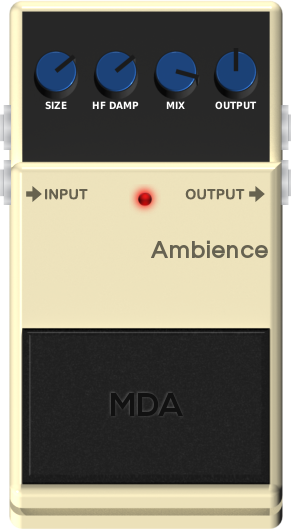
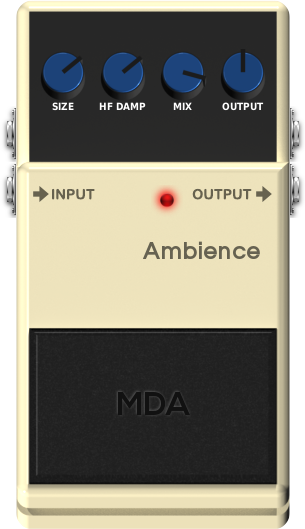
Update ambience modgui, create empty files for all modgui.ttl files

diff --git a/bundles/mod-mda-Ambience.lv2/modgui/stylesheet-mda-ambience.css b/bundles/mod-mda-Ambience.lv2/modgui/stylesheet-mda-ambience.css
@@ -1,0 +1,225 @@
+/* STYLES FOR THE JAPANESE PEDAL */
+
+@import url(/fonts/epf/stylesheet.css);
+@import url(/fonts/nexa/stylesheet.css);
+@import url(/fonts/pirulen/stylesheet.css);
+@import url(/fonts/questrial/stylesheet.css);
+
+/* = CONTAINER
+================================================ */
+.mod-pedal-japanese{{{cns}}} {
+    background-position:center center;
+    background-repeat:no-repeat;
+    height:530px;
+    position:absolute;
+    width:274px;
+    border-radius: 18px;
+}
+
+/* = BACKGROUND IMAGES - Colour of the pedal
+================================================ */
+.mod-pedal-japanese{{{cns}}}.mod-blue        { background-image:url(/resources/pedals/japanese/blue.png{{{ns}}}); }
+.mod-pedal-japanese{{{cns}}}.mod-brown       { background-image:url(/resources/pedals/japanese/brown.png{{{ns}}}); }
+.mod-pedal-japanese{{{cns}}}.mod-cream       { background-image:url(/resources/pedals/japanese/cream.png{{{ns}}}); }
+.mod-pedal-japanese{{{cns}}}.mod-darkblue    { background-image:url(/resources/pedals/japanese/darkblue.png{{{ns}}}); }
+.mod-pedal-japanese{{{cns}}}.mod-gray        { background-image:url(/resources/pedals/japanese/gray.png{{{ns}}}); }
+.mod-pedal-japanese{{{cns}}}.mod-green       { background-image:url(/resources/pedals/japanese/green.png{{{ns}}}); }
+.mod-pedal-japanese{{{cns}}}.mod-orange      { background-image:url(/resources/pedals/japanese/orange.png{{{ns}}}); }
+.mod-pedal-japanese{{{cns}}}.mod-purple      { background-image:url(/resources/pedals/japanese/purple.png{{{ns}}}); }
+.mod-pedal-japanese{{{cns}}}.mod-red         { background-image:url(/resources/pedals/japanese/red.png{{{ns}}}); }
+.mod-pedal-japanese{{{cns}}}.mod-white       { background-image:url(/resources/pedals/japanese/white.png{{{ns}}}); }
+.mod-pedal-japanese{{{cns}}}.mod-yellow      { background-image:url(/resources/pedals/japanese/yellow.png{{{ns}}}); }
+
+/* = PLUGIN'S AUTHOR
+================================================ */
+.mod-pedal-japanese{{{cns}}} .mod-plugin-brand {
+    bottom:95px;
+    left:30px;
+    position:absolute;
+    right:30px;
+    text-align:center;
+    text-transform:uppercase;
+}
+
+.mod-pedal-japanese{{{cns}}} .mod-plugin-brand h1 {
+    color:#111;
+    font-family:"Nexa";
+    font-size:32px;
+    text-shadow:1px 1px 1px rgba(255,255,255,.1), -1px -1px 1px rgba(255,255,255,.2);
+}
+
+/* = PLUGIN'S NAME
+================================================ */
+.mod-pedal-japanese{{{cns}}} .mod-plugin-name {
+    bottom:210px;
+    left:30px;
+    overflow:hidden;
+    position:absolute;
+    right:30px;
+    text-align:right;
+    top:230px;
+}
+
+.mod-pedal-japanese{{{cns}}} .mod-plugin-name h1 {
+    font-family:"Questrial";
+    font-size:24px;
+    line-height:1;
+}
+
+.mod-pedal-japanese{{{cns}}}.mod-blue .mod-plugin-name h1 {
+    color:rgb(47,73,103);
+}
+
+.mod-pedal-japanese{{{cns}}}.mod-brown .mod-plugin-name h1 {
+    color:rgba(255,255,255,.85);
+}
+
+.mod-pedal-japanese{{{cns}}}.mod-cream .mod-plugin-name h1 {
+    color:rgb(102,98,81);
+}
+
+.mod-pedal-japanese{{{cns}}}.mod-darkblue .mod-plugin-name h1 {
+    color:rgba(255,255,255,.85);
+}
+
+.mod-pedal-japanese{{{cns}}}.mod-gray .mod-plugin-name h1 {
+    color:rgba(255,255,255,.85);
+}
+
+.mod-pedal-japanese{{{cns}}}.mod-green .mod-plugin-name h1 {
+    color:rgb(39,65,26);
+}
+
+.mod-pedal-japanese{{{cns}}}.mod-orange .mod-plugin-name h1 {
+    color:rgb(162,79,21);
+}
+
+.mod-pedal-japanese{{{cns}}}.mod-purple .mod-plugin-name h1 {
+    color:rgba(255,255,255,.85);
+}
+
+.mod-pedal-japanese{{{cns}}}.mod-red .mod-plugin-name h1 {
+    color:rgb(85,14,14);
+}
+
+.mod-pedal-japanese{{{cns}}}.mod-white .mod-plugin-name h1 {
+    color:rgb(42,42,42);
+}
+
+.mod-pedal-japanese{{{cns}}}.mod-yellow .mod-plugin-name h1 {
+    color:rgb(118,95,25);
+}
+
+/* = LIGHT ON/OFF
+================================================ */
+.mod-pedal-japanese{{{cns}}} .mod-light {
+    height:32px;
+    left:135px;
+    position:absolute;
+    top:185px;
+    width:32px;
+}
+
+/* = FOOTSWITCH
+================================================ */
+.mod-pedal-japanese{{{cns}}} .mod-footswitch {
+    bottom:46px;
+    cursor:pointer;
+    height:155px;
+    left:13px;
+    position:absolute;
+    right:13px;
+}/* STYLES FOR THE JAPANESE KNOB */
+
+
+/* = KNOBS
+================================================ */
+.mod-pedal-japanese{{{cns}}} .mod-control-group.mod-blue .mod-knob .mod-knob-image {
+    background-image:url(/resources/knobs/japanese/blue.png{{{ns}}});
+}
+.mod-pedal-japanese{{{cns}}} .mod-control-group.mod-brown .mod-knob .mod-knob-image {
+    background-image:url(/resources/knobs/japanese/brown.png{{{ns}}});
+}
+.mod-pedal-japanese{{{cns}}} .mod-control-group.mod-cream .mod-knob .mod-knob-image {
+    background-image:url(/resources/knobs/japanese/cream.png{{{ns}}});
+}
+.mod-pedal-japanese{{{cns}}} .mod-control-group.mod-darkblue .mod-knob .mod-knob-image {
+    background-image:url(/resources/knobs/japanese/darkblue.png{{{ns}}});
+}
+.mod-pedal-japanese{{{cns}}} .mod-control-group.mod-gray .mod-knob .mod-knob-image {
+    background-image:url(/resources/knobs/japanese/gray.png{{{ns}}});
+}
+.mod-pedal-japanese{{{cns}}} .mod-control-group.mod-green .mod-knob .mod-knob-image {
+    background-image:url(/resources/knobs/japanese/green.png{{{ns}}});
+}
+.mod-pedal-japanese{{{cns}}} .mod-control-group.mod-orange .mod-knob .mod-knob-image {
+    background-image:url(/resources/knobs/japanese/orange.png{{{ns}}});
+}
+.mod-pedal-japanese{{{cns}}} .mod-control-group.mod-purple .mod-knob .mod-knob-image {
+    background-image:url(/resources/knobs/japanese/purple.png{{{ns}}});
+}
+.mod-pedal-japanese{{{cns}}} .mod-control-group.mod-red .mod-knob .mod-knob-image {
+    background-image:url(/resources/knobs/japanese/red.png{{{ns}}});
+}
+.mod-pedal-japanese{{{cns}}} .mod-control-group.mod-white .mod-knob .mod-knob-image {
+    background-image:url(/resources/knobs/japanese/white.png{{{ns}}});
+}
+.mod-pedal-japanese{{{cns}}} .mod-control-group.mod-yellow .mod-knob .mod-knob-image {
+    background-image:url(/resources/knobs/japanese/yellow.png{{{ns}}});
+}
+
+.mod-pedal-japanese{{{cns}}} .mod-control-group {
+    height:141px;
+    left:17px;
+    position:absolute;
+    right:17px;
+    top:18px;
+}
+.mod-pedal-japanese{{{cns}}} .mod-control-group .mod-knob {
+    height:70px;
+    float:left;
+    overflow:hidden;
+    position:relative;
+    text-align:center;
+    width:60px;
+}
+.mod-pedal-japanese{{{cns}}} .mod-control-group .mod-knob > span.mod-knob-title {
+    color:white;
+    display:block;
+    font-size:10px;
+    font-weight:bold;
+    height:11px;
+    line-height:1;
+    margin:0;
+    padding:0;
+    position:relative;
+    overflow:hidden;
+    text-transform:uppercase;
+}
+.mod-pedal-japanese{{{cns}}} .mod-control-group .mod-knob .mod-knob-image {
+    background-position:left center;
+    background-repeat:no-repeat;
+    background-size:auto 52px;
+    height:52px;
+    margin:0 auto;
+    position:relative;
+    overflow:hidden;
+    width:52px;
+}
+
+
+/* 4 KNOBS */
+.mod-pedal-japanese{{{cns}}}.mod-four-knobs .mod-control-group {
+    height:70px;
+    top:49px;
+}
+
+/* 7 KNOBS - OPTION 1 */
+.mod-pedal-japanese{{{cns}}}.mod-seven-a-knobs .mod-control-group .mod-knob:first-child {
+    margin-left:30px;
+}
+
+/* 7 KNOBS - OPTION 2 */
+.mod-pedal-japanese{{{cns}}}.mod-seven-b-knobs .mod-control-group .mod-knob:first-child {
+    margin:0 30px;
+}

diff --git a/bundles/mod-mda-Ambience.lv2/modgui/icon-mda-ambience.html b/bundles/mod-mda-Ambience.lv2/modgui/icon-mda-ambience.html
@@ -1,6 +1,6 @@
-<div class="mod-pedal mod-pedal-japanese mod-four-knobs mod-{{color}}">
+<div class="mod-pedal mod-pedal-japanese{{{cns}}} mod-four-knobs mod-{{color}}">
     <div mod-role="drag-handle" class="mod-drag-handle"></div>
-    <div class="mod-plugin-author"><h1>{{author}}</h1></div>
+    <div class="mod-plugin-brand"><h1>{{brand}}</h1></div>
     <div class="mod-plugin-name"><h1>{{label}}</h1></div>
     <div class="mod-light on" mod-role="bypass-light"></div>
     <div class="mod-control-group mod-{{knob}} clearfix">
@@ -32,7 +32,7 @@
        {{/effect.ports.audio.output}}
         {{#effect.ports.midi.output}}
         <div class="mod-output mod-output-disconnected" title="{{name}}" mod-role="output-midi-port" mod-port-symbol="{{symbol}}">
-            <div class="mod-pedal-input-image"></div>
+            <div class="mod-pedal-output-image"></div>
         </div>
         {{/effect.ports.midi.output}}
    </div>
